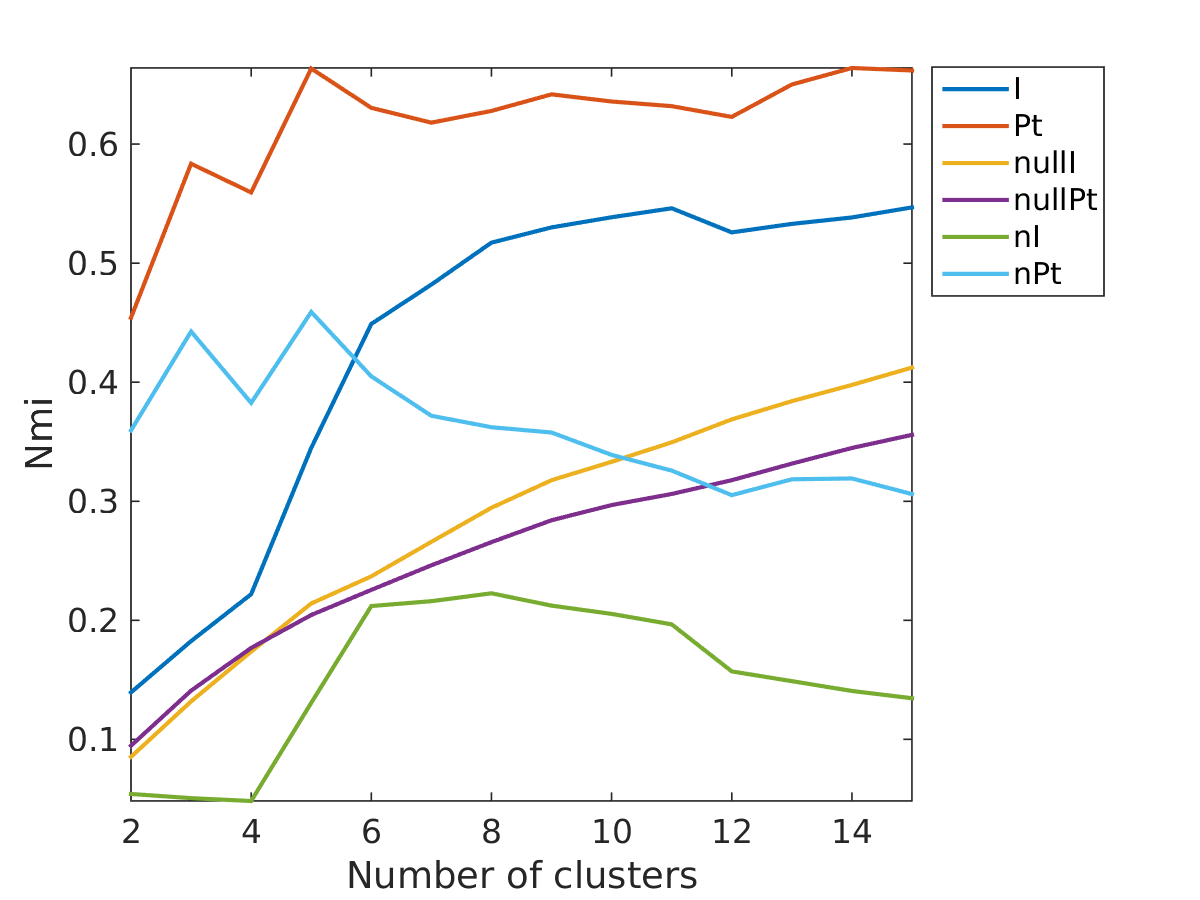
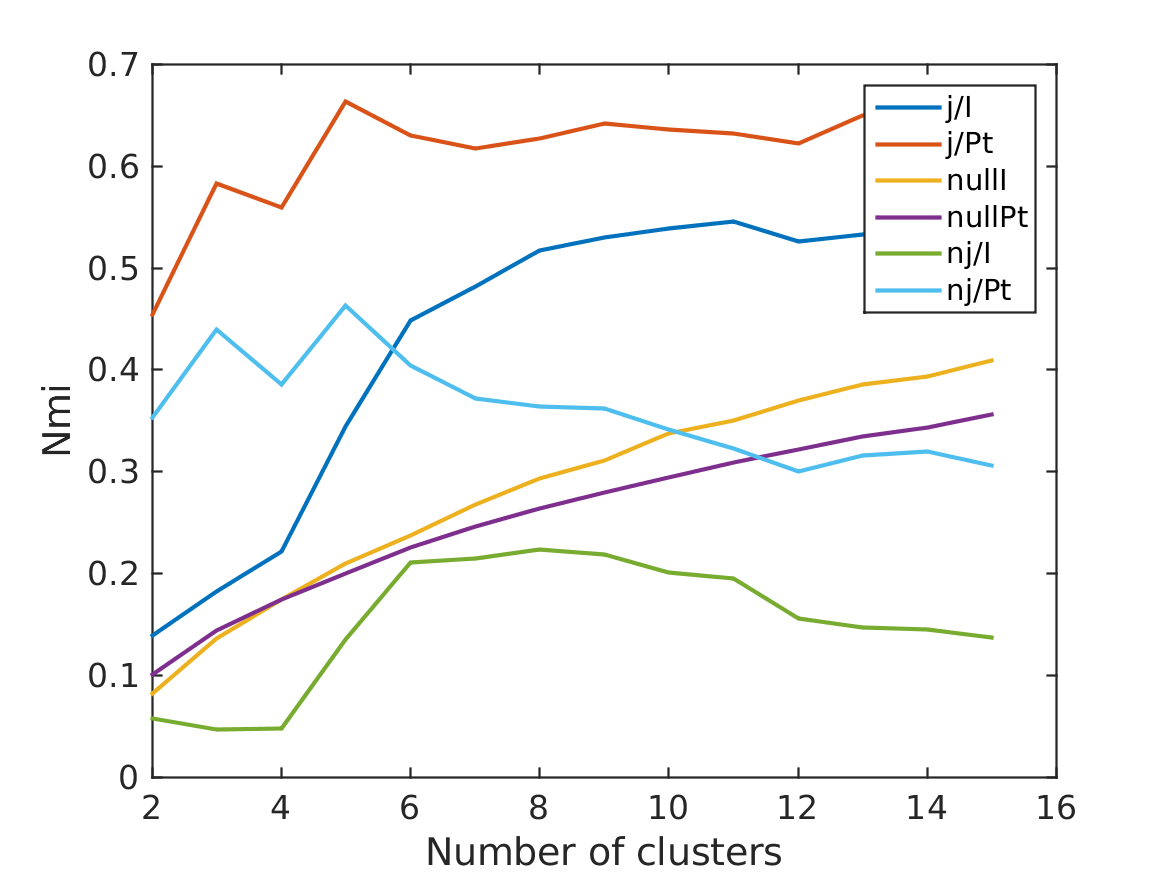
updated legend

diff --git a/code/clusterAnalysis.m b/code/clusterAnalysis.m
@@ -54,9 +54,10 @@ figure(1)
 plot([ai; am; ari; arm; ai-ari; am-arm]', 'LineWidth', 2)
 xlabel('Number of clusters')
 ylabel('Nmi')
-legend({'judgmentsInstruments', 'judgmentsModes', 'nullInstruments', 'nullModes', 'normalizedJudgmentsInstruments', 'normalizedJudgmentsModes'})
+legend({'j/I', 'j/Pt', 'nullI', 'nullPt', 'nj/I', 'nj/Pt'})
 set(gca, 'FontSize', 16)
 saveas(gcf, 'figures/clusterAnalysis', 'png')
+saveas(gcf, 'figures/clusterAnalysis', 'fig')
 
 
 figure(2)
